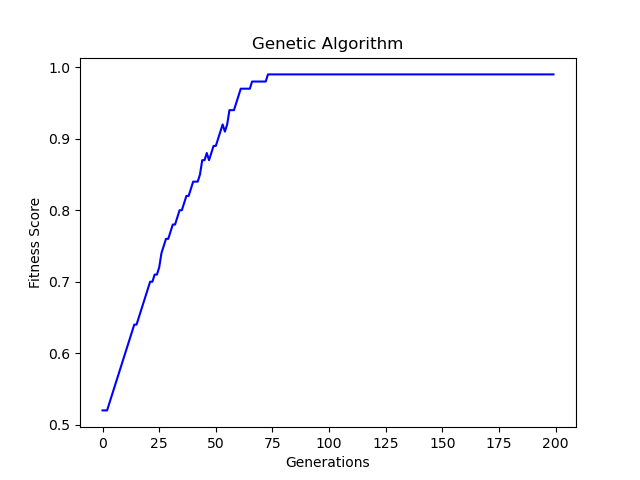
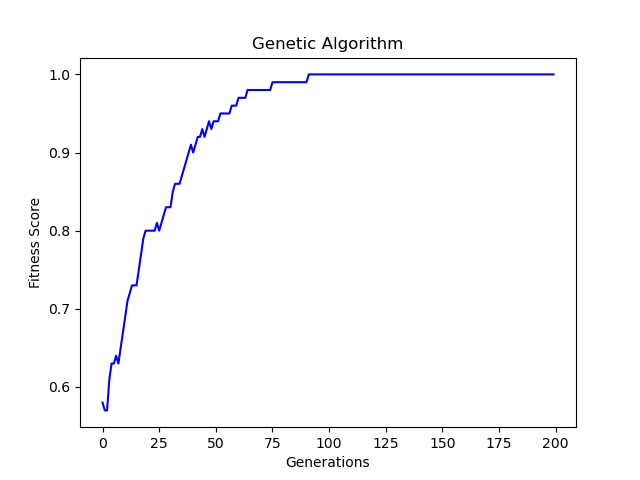
Added decay for mutations

diff --git a/main.py b/main.py
@@ -4,7 +4,7 @@ from matplotlib import pyplot as plt
 
 
 class GeneticAlgorithm:
-    def __init__(self, chromosome, max_number_of_chromosomes=100, mutation_rate=0.1, decay=10,
+    def __init__(self, chromosome, max_number_of_chromosomes=100, mutation_rate=0.1, decay=0.1,
                  elite_selection=0.01, epochs=200):
         # having an interface between this and the class the user calls means the user does not have to specify all the values, as there can be default values
         self.chromosomes = [chromosome]  # chromosome
@@ -30,7 +30,7 @@ class GeneticAlgorithm:
 
             elite = self.elite()
             mutations = self.mutate(self.highest_scoring_chromosomes,
-                                    number_of_mutations=int(self.chromosome_length * self.mutation_rate / self.decay))
+                                    number_of_mutations=int(self.chromosome_length * self.mutation_rate / (self.decay * i + 1)))
             crossover = self.crossover(self.highest_scoring_chromosomes)
 
             new_generation.extend(elite)
